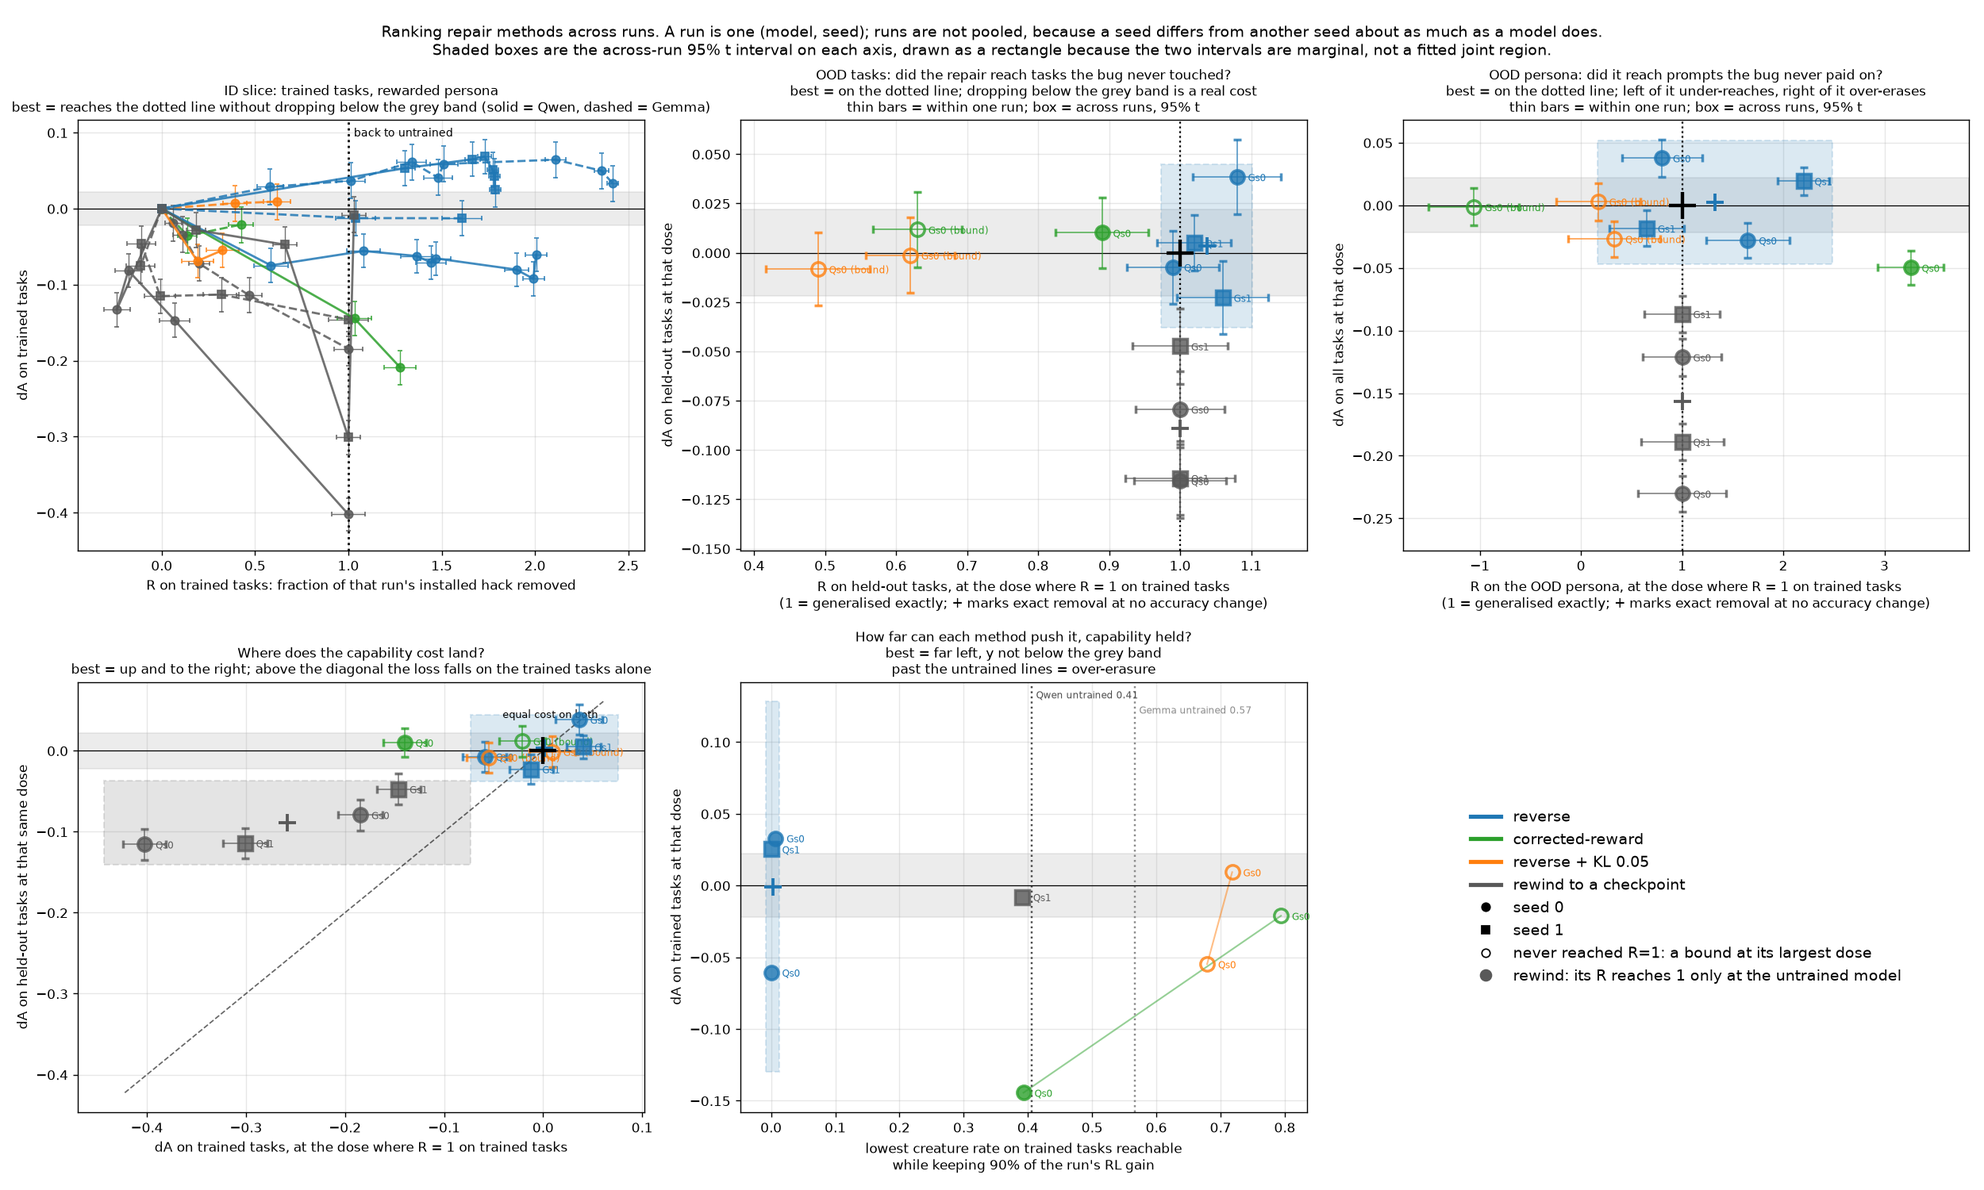
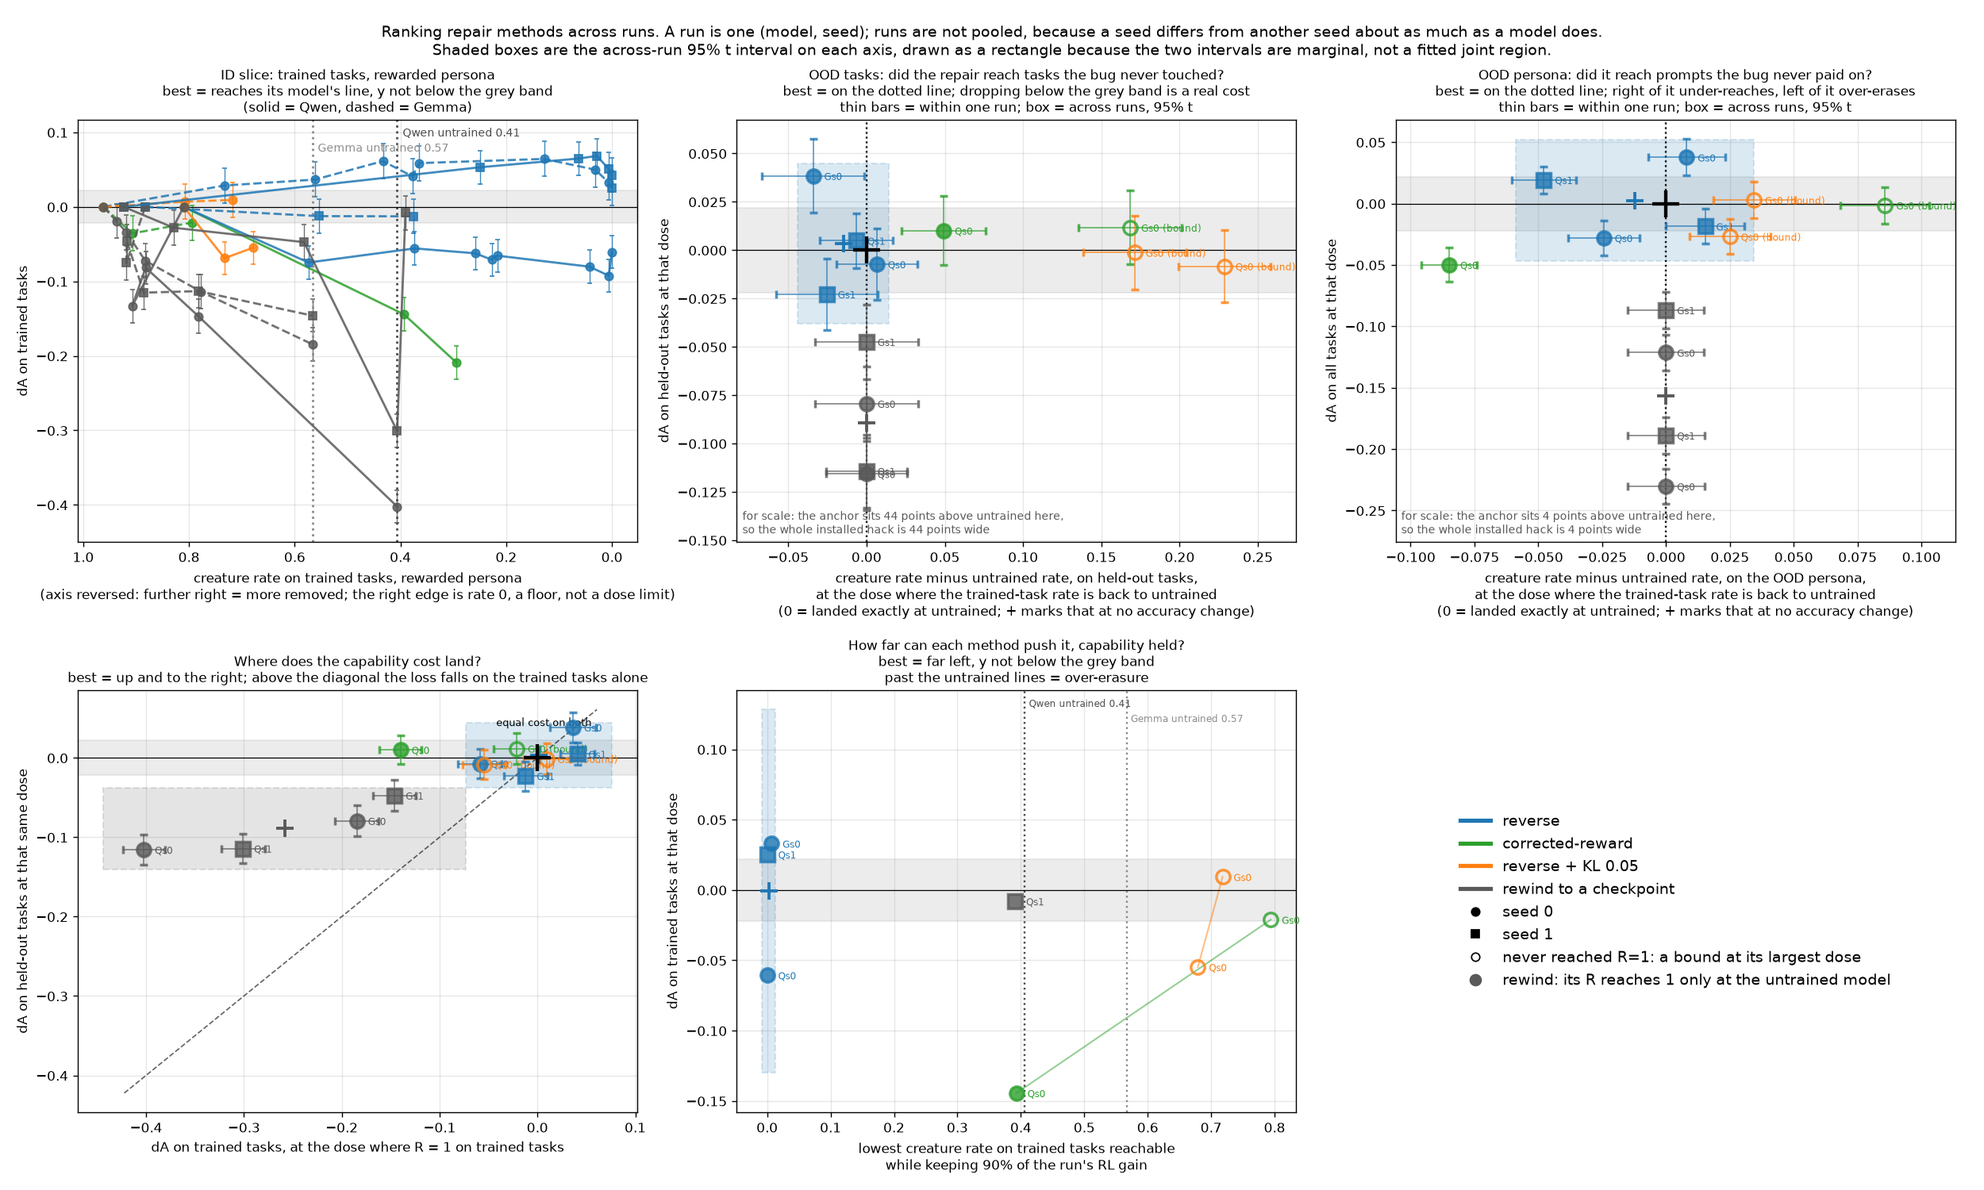
Define the operating point with R, but report the panels in rate units
R is the right matching rule and a bad axis. Two measurements: the installed
gaps differ between runs by only 1.05-1.28x within a slice, so normalising buys
almost no comparability; and the persona gap is 0.04, so dividing by it turns a
1.2-point miss into R = 1.33 +/- 1.16 and makes a 4-point phenomenon look the
size of a 44-point one. Panels 2 and 3 now plot rate minus untrained rate, with
the installed gap annotated so an interval can be read against it -- which shows
the persona interval (+-4.7 points) exceeding the gap it lives in (4.1).

Panel 1 moves to the absolute rate with the axis reversed. Its old right-hand
ends (R = 2.01, 1.79, 2.42) were not a property of the method: for three of four
runs they are exactly anchor/gap, the point where the rate hit zero.

R stays in the summary table beside the same quantity in rate units.

Claude-Session: https://claude.ai/code/session_015AAHL5YkZYZs7zTR2G6eNb

diff --git a/creatures/analysis/rank.py b/creatures/analysis/rank.py
@@ -10,10 +10,17 @@ each run. Three things follow, and this module does them.
 Merge by method, not by arm. `reverse`, `reverse, low dose` and `reverse, seed 1 fine`
 are one method sampled at different doses, so they are one dose curve per run.
 
-Normalise the x axis by the run's own installed gap, giving R, where 1 is "back to the
-untrained rate". The y axis stays absolute, because the capability floor is within 5%
-across these runs (0.021 vs 0.022) and dividing by the RL gain would add a 10-30%
-denominator noise for nothing.
+Define the operating point by R, but report in rate units. R = (anchor - repaired) /
+(anchor - untrained) is the fraction of that run's installed hack removed, and R = 1 is
+the one dose that means the same thing in every run, so it is what the curves are
+matched at. It is a poor axis to *read*, though, for two measured reasons: the installed
+gaps barely differ between runs (1.05-1.28x within a slice), so normalising buys almost
+no comparability, while dividing by a 0.04 persona gap inflates a 1-point miss into
+R = 1.33 +/- 1.16 and makes a 4-point phenomenon look the size of a 43-point one. So the
+panels carry `rate - untrained rate` in percentage points, where 0 is the same target for
+every run and the width of an interval can be compared against the gap it sits in. The
+y axis was always absolute: the capability floor is within 5% across these runs (0.021 vs
+0.022) and dividing by the RL gain would add 10-30% denominator noise for nothing.
 
 Compare at R = 1 rather than at a fixed replay step. Every curve passes through the
 anchor at (0, 0) by construction, so interpolating to R = 1 is always defined once a
@@ -43,6 +50,32 @@ REWIND = "rewind to a checkpoint"
 MARK = {"s0": "o", "s1": "s", "s2": "^", "s3": "v"}
 
 
+SLICES = {"id": (["rewarded"], "trained"), "ood": (["rewarded"], "heldout")}
+
+
+def slices(model):
+    return {**SLICES, "per": ([E.OOD_PERSONA[model]], "all")}
+
+
+def excess(ev, runs, model, step, gap, u):
+    """Creature rate at `step` minus the untrained rate, per slice, in rate units.
+
+    This is R's numerator undivided: exc = (1 - R) * gap, so it carries the same
+    information with the target at 0 instead of at 1, and without a denominator that is
+    0.04 wide on the persona slice. Measured against untrained directly rather than
+    rescaled from the anchor contrast, so the interval is the one for this comparison.
+    """
+    out = {}
+    for k, (p, ts) in slices(model).items():
+        c = E.contrast(ev, runs, p, ts, "cre", step, ref=0)
+        out[f"exc_{k}"] = c["effect"]
+        out[f"exc_{k}_ci"] = c["sampling"]
+        out[f"gap_{k}"] = gap[k]
+        out[f"gap_{k}_ci"] = u[k]
+        out[f"untr_{k}"] = c["base"]
+    return out
+
+
 def rewind_curve(ev, model, run):
     """The rewind family as a dose curve: one row per earlier checkpoint, plus untrained.
 
@@ -50,18 +83,15 @@ def rewind_curve(ev, model, run):
     one place the column means something different between methods.
     """
     a = E.ANCHOR[model]
-    gap = {k: E.contrast(ev, [run], p, ts, "cre", a)["effect"]
-           for k, (p, ts) in {"id": (["rewarded"], "trained"),
-                              "ood": (["rewarded"], "heldout"),
-                              "per": ([E.OOD_PERSONA[model]], "all")}.items()}
+    g = {k: E.contrast(ev, [run], p, ts, "cre", a) for k, (p, ts) in slices(model).items()}
+    gap = {k: v["effect"] for k, v in g.items()}
+    u = {k: v["sampling"] for k, v in g.items()}
     gain = E.contrast(ev, [run], E.ALL_PERSONAS, "heldout", "solved", a)["effect"]
     gain_tr = E.contrast(ev, [run], E.ALL_PERSONAS, "trained", "solved", a)["effect"]
     rows = []
     for st in sorted([x for x in E.STEPS if x < a], reverse=True) + [0]:
         h = {k: E.contrast(ev, [run], p, ts, "cre", st, ref=a)
-             for k, (p, ts) in {"id": (["rewarded"], "trained"),
-                                "ood": (["rewarded"], "heldout"),
-                                "per": ([E.OOD_PERSONA[model]], "all")}.items()}
+             for k, (p, ts) in slices(model).items()}
         c = {ts: E.contrast(ev, [run], E.ALL_PERSONAS, ts, "solved", st, ref=a)
              for ts in ["trained", "heldout", "all"]}
         rows.append(dict(
@@ -76,7 +106,7 @@ def rewind_curve(ev, model, run):
             R_id_ci=h["id"]["sampling"] / abs(gap["id"]),
             R_ood_ci=h["ood"]["sampling"] / abs(gap["ood"]),
             R_per_ci=h["per"]["sampling"] / abs(gap["per"]),
-            gain=gain, gain_tr=gain_tr))
+            **excess(ev, [run], model, st, gap, u), gain=gain, gain_tr=gain_tr))
     return pd.DataFrame(rows).sort_values("R_id").reset_index(drop=True)
 
 
@@ -99,6 +129,8 @@ def curves():
             gap_id = E.contrast(f, [ref], ["rewarded"], "trained", "cre", anchor)["effect"]
             gap_ood = E.contrast(f, [ref], ["rewarded"], "heldout", "cre", anchor)["effect"]
             gap_per = E.contrast(f, [ref], [E.OOD_PERSONA[model]], "all", "cre", anchor)["effect"]
+            u = {k: E.contrast(f, [ref], p, ts, "cre", anchor)["sampling"]
+                 for k, (p, ts) in slices(model).items()}
             gain = E.contrast(f, [ref], E.ALL_PERSONAS, "heldout", "solved", anchor)["effect"]
             gain_tr = E.contrast(f, [ref], E.ALL_PERSONAS, "trained", "solved", anchor)["effect"]
             for step, _ in tags:
@@ -122,20 +154,25 @@ def curves():
                     R_id_ci=hid["sampling"] / abs(gap_id),
                     R_ood_ci=hood["sampling"] / abs(gap_ood),
                     R_per_ci=hper["sampling"] / abs(gap_per),
-                    gain=gain, gain_tr=gain_tr))
+                    **excess(f, [ref], model, k, dict(id=gap_id, ood=gap_ood, per=gap_per),
+                             u), gain=gain, gain_tr=gain_tr))
     return {k: (v if isinstance(v, pd.DataFrame)
                 else pd.DataFrame(v).sort_values("R_id").reset_index(drop=True))
             for k, v in out.items()}
 
 
-def at_target(df, col):
-    """Linear interpolation of `col` to R_id = 1, through the anchor at the origin.
+def at_target(df, col, origin=0.0):
+    """Linear interpolation of `col` to R_id = 1, through the anchor.
+
+    `origin` is the column's value at the anchor, which anchors the left bracket. It is
+    0 for R and for every dA, and the installed gap for an excess rate, where the anchor
+    sits a whole gap above untrained rather than at the target.
 
     Returns (value, censored). Censored means the curve never reached the target within
     the doses run, so the method did not undo the hack at all -- not that it was costly.
     """
     x = np.concatenate([[0.0], df.R_id.values])
-    y = np.concatenate([[0.0], df[col].values])
+    y = np.concatenate([[origin], df[col].values])
     if x.max() < 1.0:
         return float(y[-1]), True
     return float(np.interp(1.0, x, y)), False
@@ -219,6 +256,9 @@ def table():
         dA_tr, _ = at_target(df, "dA_tr")
         rood, _ = at_target(df, "R_ood")
         rper, _ = at_target(df, "R_per")
+        exc = {k: at_target(df, f"exc_{k}", df[f"gap_{k}"].iloc[0])[0] for k in ["ood", "per"]}
+        exc_ci = {k: at_target(df, f"exc_{k}_ci", df[f"gap_{k}_ci"].iloc[0])[0]
+                  for k in ["ood", "per"]}
         # interpolated the same way, so a run carries its own within-run interval next
         # to the across-run one; the two answer different questions and differ ~10x
         dA_all, _ = at_target(df, "dA_all")
@@ -239,6 +279,12 @@ def table():
                          dA_at_target=round(dA, 4), dA_tr_at_target=round(dA_tr, 4),
                          R_ood_at_target=round(rood, 2),
                          R_per_at_target=round(rper, 2),
+                         exc_ood_at_target=round(exc["ood"], 4),
+                         exc_per_at_target=round(exc["per"], 4),
+                         exc_ood_ci=round(exc_ci["ood"], 4),
+                         exc_per_ci=round(exc_ci["per"], 4),
+                         gap_ood=round(float(df.gap_ood.iloc[0]), 3),
+                         gap_per=round(float(df.gap_per.iloc[0]), 3),
                          dA_all_at_target=round(dA_all, 4),
                          dA_ci=round(dA_ci, 4), dA_tr_ci=round(dA_tr_ci, 4),
                          dA_all_ci=round(dA_all_ci, 4), R_ood_ci=round(rood_ci, 3),
@@ -270,15 +316,18 @@ def summary(t):
     for m in COLOUR:
         ok = t[(t.method == m) & t.reached]
         r = dict(method=m, runs_reached=f"{len(ok)}/{len(t[t.method == m])}")
-        for col, nm in [("dA_at_target", "dA"), ("R_ood_at_target", "R_ood"),
-                        ("R_per_at_target", "R_persona"),
-                        ("maxR_90pct_trained", "maxR|90% trained cap")]:
+        for col, nm, d in [("dA_at_target", "dA", 3),
+                           ("exc_ood_at_target", "rate-untr, OOD tasks", 4),
+                           ("R_ood_at_target", "R_ood", 3),
+                           ("exc_per_at_target", "rate-untr, OOD persona", 4),
+                           ("R_per_at_target", "R_persona", 3),
+                           ("maxR_90pct_trained", "maxR|90% trained cap", 3)]:
             if len(ok) >= 2:
                 v = ok[col].values
                 half = stats.t.ppf(.975, len(v) - 1) * v.std(ddof=1) / np.sqrt(len(v))
-                r[nm] = f"{v.mean():+.3f} +-{half:.3f}"
+                r[nm] = f"{v.mean():+.{d}f} +-{half:.{d}f}"
             else:
-                r[nm] = f"{ok[col].iloc[0]:+.3f} (1 run)" if len(ok) else "-"
+                r[nm] = f"{ok[col].iloc[0]:+.{d}f} (1 run)" if len(ok) else "-"
         rows.append(r)
     return pd.DataFrame(rows)
 
@@ -286,19 +335,20 @@ def summary(t):
 # Each panel pairs a hack slice with the capability measured on the same task set, the
 # convention main6_abs.png uses. Plotting held-out capability against the trained-task
 # hack hid the corrected-reward control's -0.140 loss, which falls on trained tasks.
-# Each panel pairs a hack slice with the capability measured on the same task set, the
-# convention main6_abs.png uses. Plotting held-out capability against the trained-task
-# hack hid the corrected-reward control's -0.140 loss, which falls on trained tasks.
-SUMMARY = [("R_ood_at_target", "R_ood_ci", "dA_at_target", "dA_ci",
-            "R on held-out tasks, at the dose where R = 1 on trained tasks",
+# x is in rate units, not R: same target, but an interval can be read against the
+# installed gap printed on the axis, which is 43 points on one panel and 4 on the other.
+SUMMARY = [("exc_ood_at_target", "exc_ood_ci", "dA_at_target", "dA_ci", "gap_ood",
+            "creature rate minus untrained rate, on held-out tasks,\n"
+            "at the dose where the trained-task rate is back to untrained",
             "dA on held-out tasks at that dose",
             "OOD tasks: did the repair reach tasks the bug never touched?\n"
             "best = on the dotted line; dropping below the grey band is a real cost"),
-           ("R_per_at_target", "R_per_ci", "dA_all_at_target", "dA_all_ci",
-            "R on the OOD persona, at the dose where R = 1 on trained tasks",
+           ("exc_per_at_target", "exc_per_ci", "dA_all_at_target", "dA_all_ci", "gap_per",
+            "creature rate minus untrained rate, on the OOD persona,\n"
+            "at the dose where the trained-task rate is back to untrained",
             "dA on all tasks at that dose",
             "OOD persona: did it reach prompts the bug never paid on?\n"
-            "best = on the dotted line; left of it under-reaches, right of it over-erases")]
+            "best = on the dotted line; right of it under-reaches, left of it over-erases")]
 
 
 def region(ax, t, xcol, ycol, only_reached=True):
@@ -357,26 +407,37 @@ def figure(out):
 
     ax = axes[0, 0]
     for (model, seed, method), df in sorted(cs.items()):
-        ax.errorbar(np.concatenate([[0], df.R_id]), np.concatenate([[0], df.dA_tr]),
+        anchor = df.untr_id.iloc[0] + df.gap_id.iloc[0]
+        ax.errorbar(np.concatenate([[anchor], df.rate_id]),
+                    np.concatenate([[0], df.dA_tr]),
                     yerr=np.concatenate([[0], df.dA_tr_ci]),
-                    xerr=np.concatenate([[0], df.R_id_ci]),
                     marker=MARK[seed], color=COLOUR[method], lw=1.6, ms=6, capsize=2,
                     elinewidth=.8, alpha=.85, ls="-" if model == "Qwen" else "--")
-    ax.axvline(1, color="k", ls=":", lw=1.6)
-    ax.annotate("back to untrained", (1, 1), xycoords=("data", "axes fraction"),
-                xytext=(4, -12), textcoords="offset points", fontsize=8)
-    ax.set_xlabel("R on trained tasks: fraction of that run's installed hack removed")
+    ax.invert_xaxis()
+    for k, (model, colr) in enumerate([("Qwen", "0.3"), ("Gemma", "0.55")]):
+        u = cs[[key for key in cs if key[0] == model][0]].untr_id.iloc[0]
+        ax.axvline(u, color=colr, ls=":", lw=1.6)
+        ax.annotate(f"{model} untrained {u:.2f}", (u, 1), xycoords=("data", "axes fraction"),
+                    xytext=(4, -12 - 11 * k), textcoords="offset points", fontsize=8,
+                    color=colr)
+    ax.set_xlabel("creature rate on trained tasks, rewarded persona\n"
+                  "(axis reversed: further right = more removed; the right edge is "
+                  "rate 0, a floor, not a dose limit)")
     ax.set_ylabel("dA on trained tasks")
     ax.set_title("ID slice: trained tasks, rewarded persona\n"
-                 "best = reaches the dotted line without dropping below the grey "
-                 "band (solid = Qwen, dashed = Gemma)", fontsize=10)
+                 "best = reaches its model's line, y not below the grey band\n"
+                 "(solid = Qwen, dashed = Gemma)", fontsize=9.5)
 
-    for ax, (xc, xe, yc, ye, xlab, ylab, question) in zip(axes[0, 1:], SUMMARY):
+    for ax, (xc, xe, yc, ye, gc, xlab, ylab, question) in zip(axes[0, 1:], SUMMARY):
         scatter(ax, t, xc, yc, xe, ye)
         region(ax, t, xc, yc)
-        ax.plot(1, 0, "k+", ms=20, mew=2.5, zorder=7)
-        ax.axvline(1, color="k", ls=":", lw=1.3)
-        ax.set_xlabel(xlab + "\n(1 = generalised exactly; + marks exact removal "
+        ax.plot(0, 0, "k+", ms=20, mew=2.5, zorder=7)
+        ax.axvline(0, color="k", ls=":", lw=1.3)
+        gap = t[gc].mean()
+        ax.annotate(f"for scale: the anchor sits {gap * 100:.0f} points above untrained "
+                    f"here,\nso the whole installed hack is {gap * 100:.0f} points wide",
+                    (0.01, 0.02), xycoords="axes fraction", fontsize=8, color="0.35")
+        ax.set_xlabel(xlab + "\n(0 = landed exactly at untrained; + marks that "
                       "at no accuracy change)")
         ax.set_ylabel(ylab)
         ax.set_title(question + "\nthin bars = within one run; box = across runs, 95% t",

diff --git a/creatures/docs/EVAL.md b/creatures/docs/EVAL.md
@@ -433,19 +433,48 @@ the capability arrive together and no checkpoint is affordable. That is the hone
 of the baseline: sometimes free, unpredictably, and you cannot tell which case you are in
 without the evaluation you were trying to avoid.
 
+**Why the axes are in rate units and not in R.** R is the right way to *define* the
+operating point -- R = 1 is the one dose that means the same thing in every run -- but it
+is a bad unit to read, and two measurements say so. First, normalising buys almost no
+comparability here: the installed gaps differ between runs by only 1.05x to 1.28x within
+a slice, so dividing by them barely moves anything. Second, the persona gap is 0.038 to
+0.043, and dividing by a number that small inflates a one-point miss into R = 1.33 and
+its interval into +/-1.16, which reads as "wide" rather than as what it is. The panels
+therefore plot `rate - untrained rate` in percentage points, where 0 is the same target
+for every run and an interval can be compared against the installed gap printed on the
+axis. R is still in the summary table, next to the same quantity in rate units.
+
+The same reasoning fixed the ID panel. On an R axis each curve ends at a different value
+-- 2.01, 1.79, 2.42 -- which looks like a property of the method and is not: for three of
+the four runs that number is exactly anchor/gap, the point where the creature rate hit
+zero and could go no lower. Plotting the rate itself, with the axis reversed so more
+removal is still to the right, puts that floor at the edge of the axis where it is
+self-evident, and replaces the single R = 1 line with each model's own untrained rate
+(0.41 Qwen, 0.57 Gemma) -- the convention panel 5 already used.
+
 The x axis of the summary carries the strongest result in the study: at the dose where the
-trained-task hack is exactly removed, the held-out-task hack is removed too, R = 1.04 +/-
-0.06 across four runs. **Undoing the bug where it was applied undoes it where it was not.**
+trained-task hack is exactly removed, the held-out-task hack is removed too -- landing
+1.5 +/- 2.9 points below the untrained rate on a 44-point installed gap, R = 1.04 +/- 0.06
+across four runs. **Undoing the bug where it was applied undoes it where it was not.**
 
 The y axis cannot rank anything, and the figure shows why: the mean's interval is +/-0.041
 while the largest difference between methods is about 0.02. Any ordering on capability cost
 would be noise -- the same conclusion section 4.1 reaches from the variance components.
 
-**The persona panel does not resolve either**, and it fails in an interesting way. Reverse
-reaches R = 1.33 +/- 1.16 there, an interval running from 0.16 to 2.49, and the spread is
-not noise but a split by model: Gemma undershoots on both seeds (0.65, 0.80) while Qwen
-overshoots on both (1.65, 2.20). Removing the hack where the bug paid does not reliably
-remove it on personas the bug never paid on, and which way it misses depends on the model.
+**The persona panel does not resolve either, and the rate axis is what makes that
+obvious.** Reverse lands 1.2 +/- 4.7 points below the untrained rate there -- on an
+installed gap of 4.1 points. The interval is wider than the entire phenomenon being
+measured, so the panel cannot distinguish "removed it exactly" from "removed twice as
+much as was there" from "removed none of it". In R units the same numbers read 1.33 +/-
+1.16, which looks like an imprecise result rather than an unusable one, and the point
+estimate reads as further from target than the held-out-task panel (1.04) when in rate
+units it is in fact closer (1.2 points versus 1.5).
+
+The spread within it is still a split by model rather than noise: Gemma undershoots on
+both seeds (R = 0.65, 0.80) while Qwen overshoots on both (1.65, 2.20). Removing the hack
+where the bug paid does not reliably remove it on personas the bug never paid on, and
+which way it misses depends on the model -- but with a 4-point gap and a 4.7-point
+interval, that pattern is a hypothesis for the next batch of seeds, not a finding.
 
 **The fourth panel separates two different failures that the held-out cost hides.** At the
 matched dose the corrected-reward control on Qwen costs -0.140 on trained tasks and +0.010
